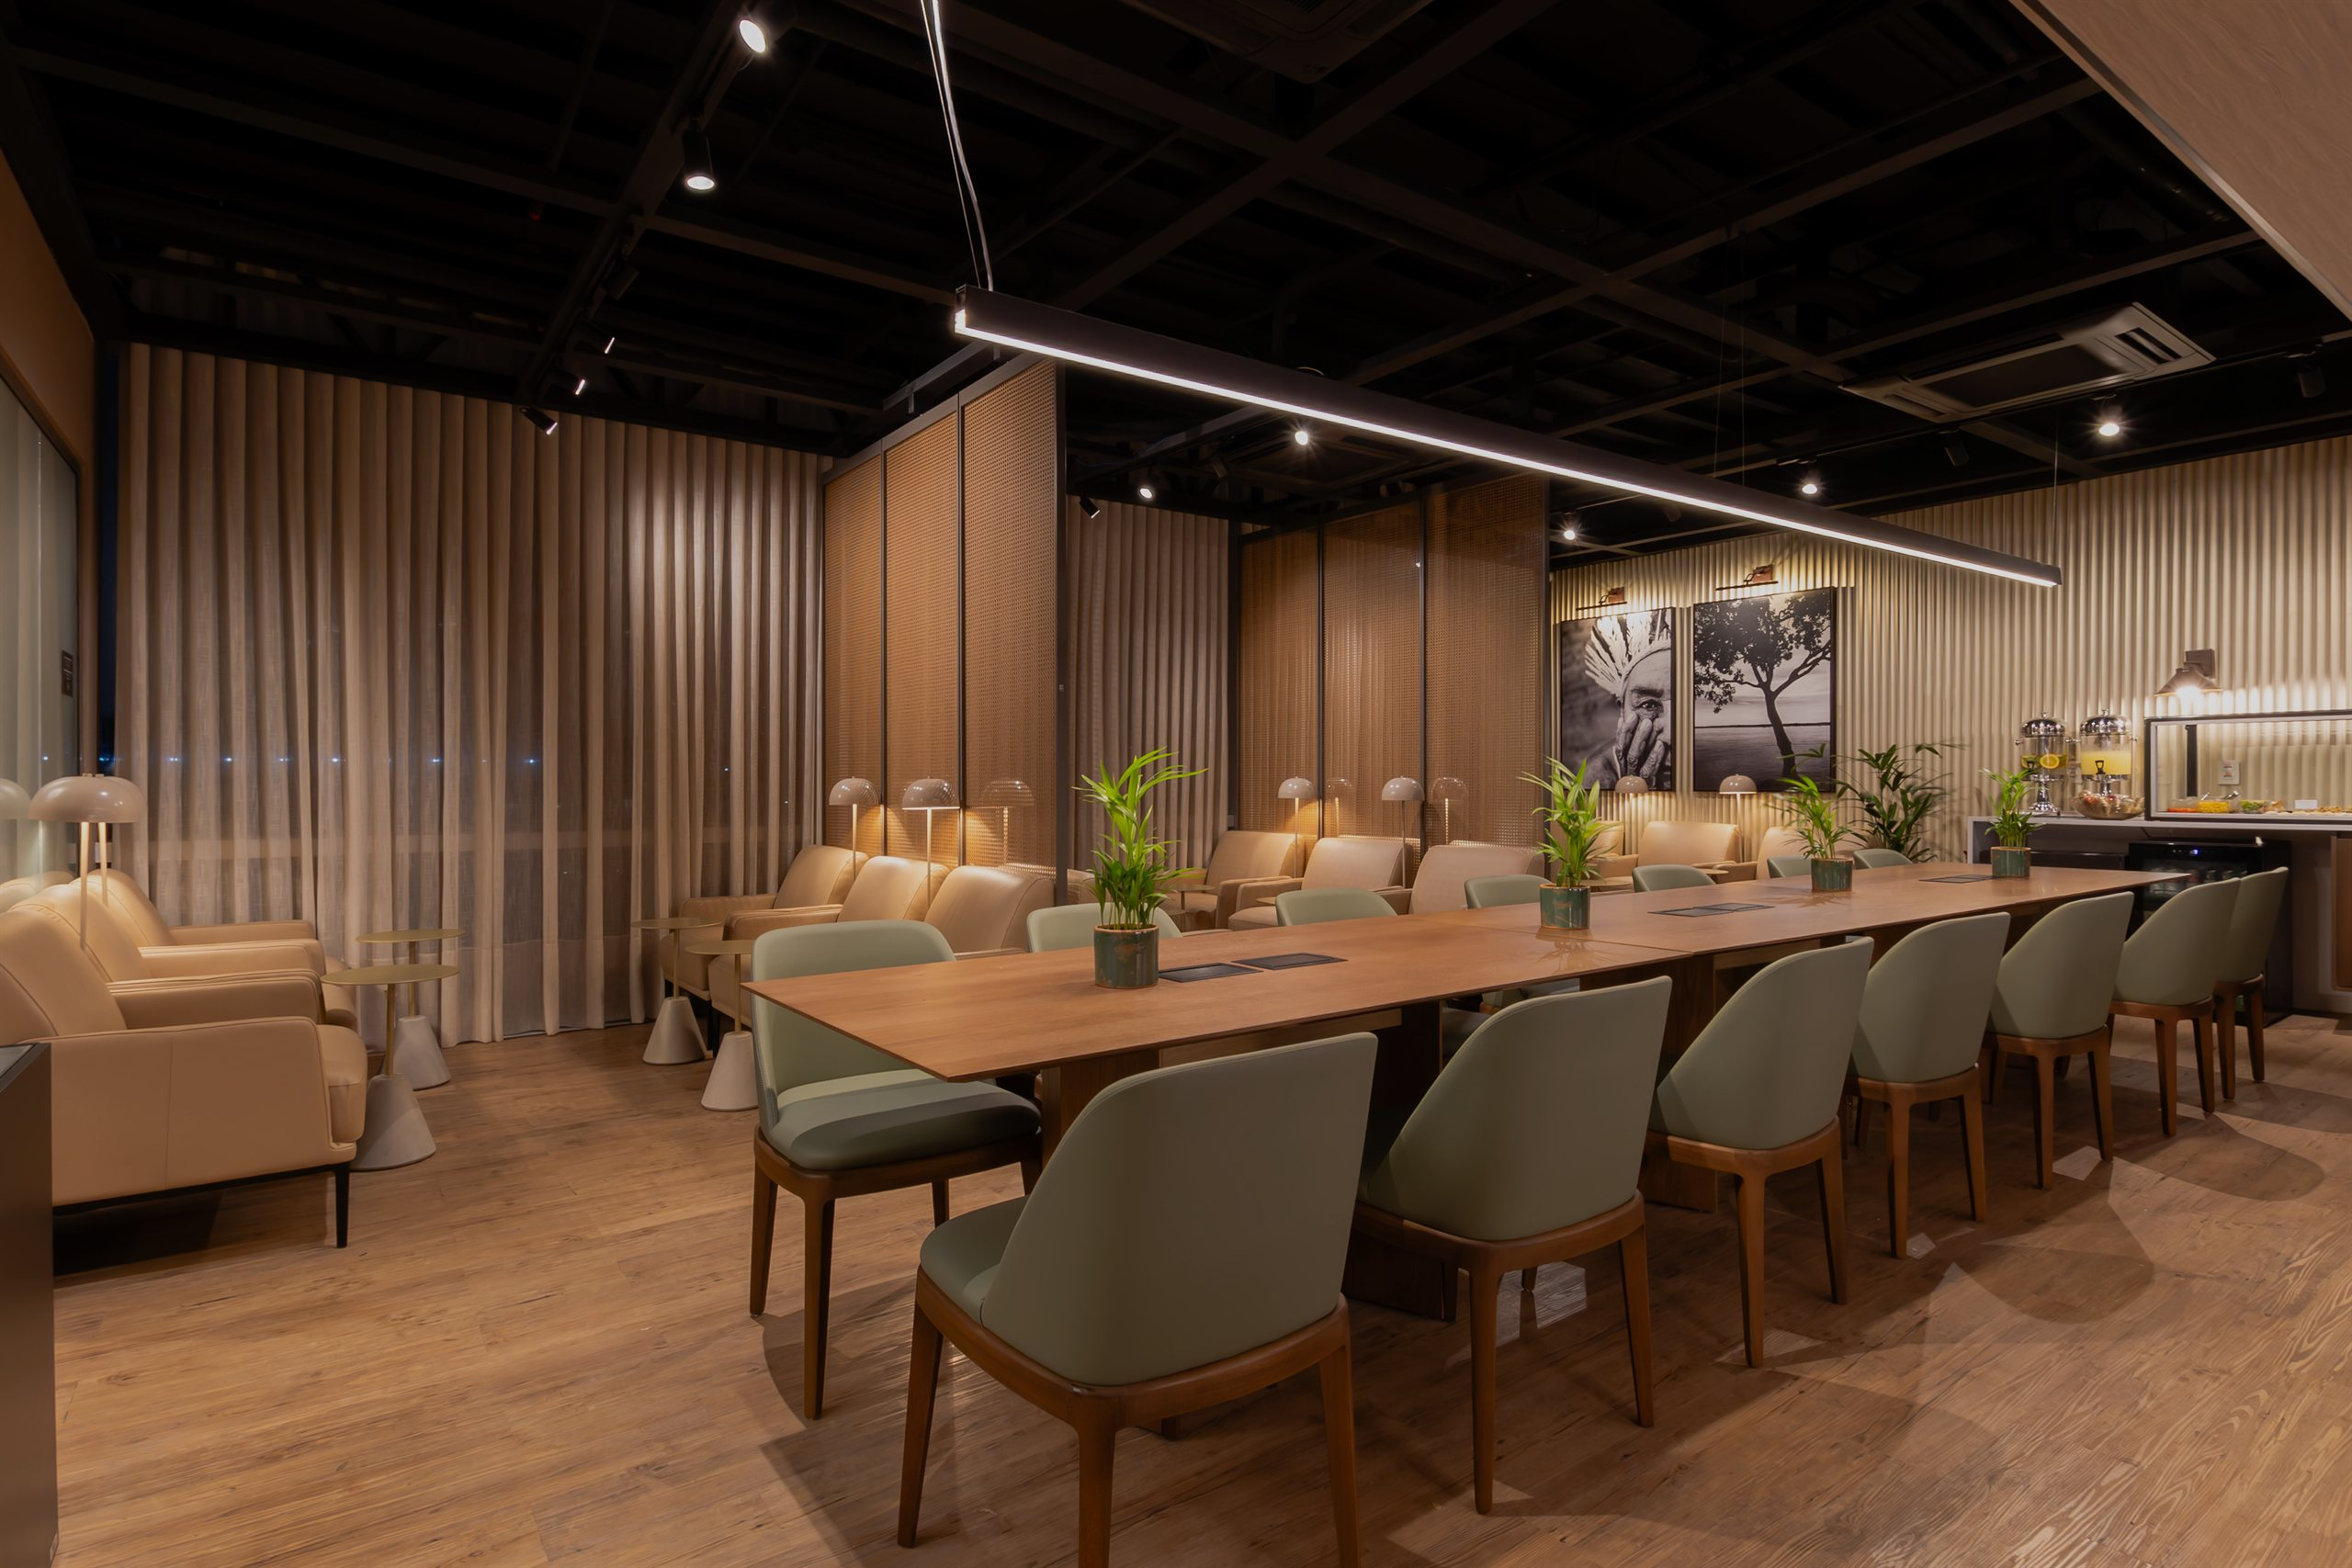
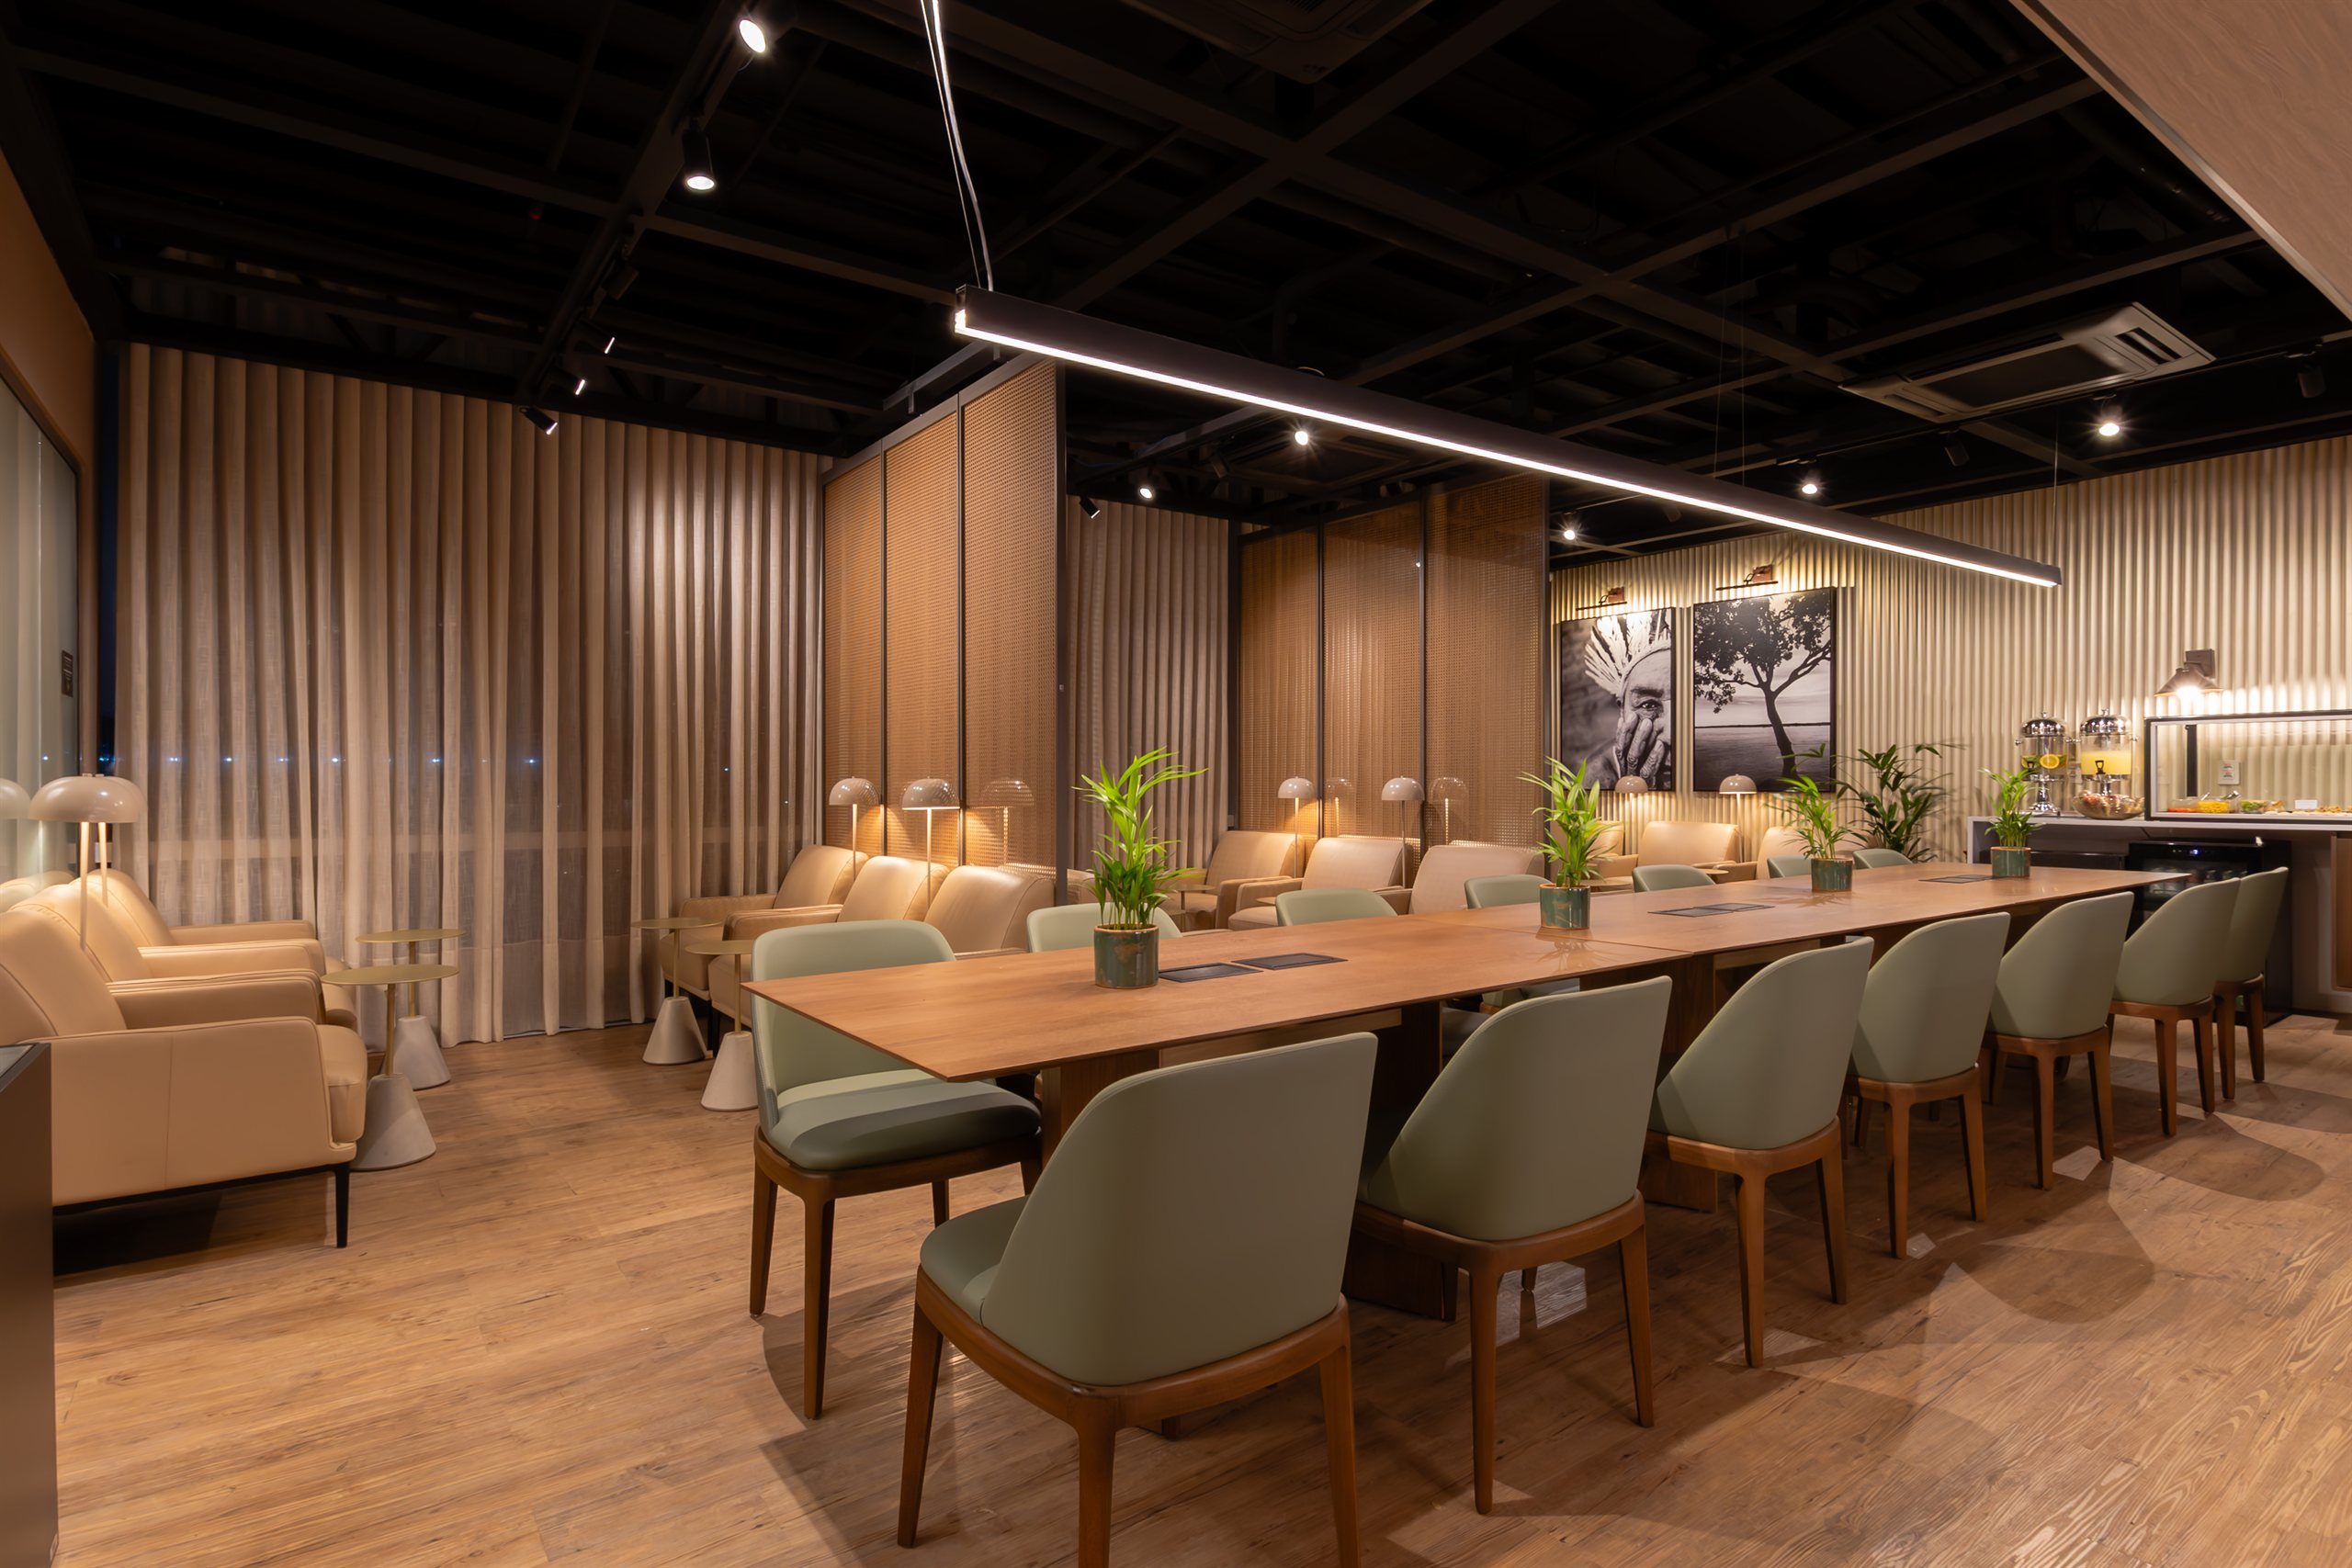
Hero: reverte darken do slide 3; escurece so o centro via radial no scrim (.20)

diff --git a/css/highfi.css b/css/highfi.css
@@ -186,7 +186,9 @@ body.nav-open .nav-overlay{opacity:1;visibility:visible;}
 .hero-fs .hero-slide.is-active{opacity:1;}
 .hero-fs .hero-scrim{
   position:absolute;inset:0;
-  background:linear-gradient(180deg,rgba(33,34,34,.44) 0%,rgba(33,34,34,.34) 45%,rgba(33,34,34,.60) 100%);
+  background:
+    radial-gradient(ellipse 72% 58% at 50% 42%, rgba(33,34,34,.20) 0%, rgba(33,34,34,0) 68%),
+    linear-gradient(180deg,rgba(33,34,34,.44) 0%,rgba(33,34,34,.34) 45%,rgba(33,34,34,.60) 100%);
 }
 .hero-fs .hero-content{
   position:absolute;inset:0;